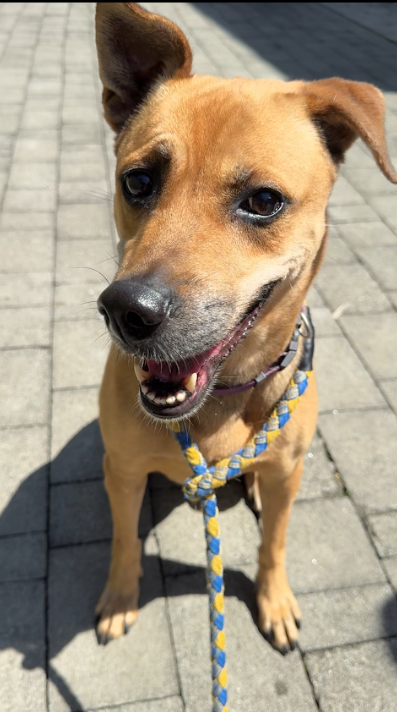
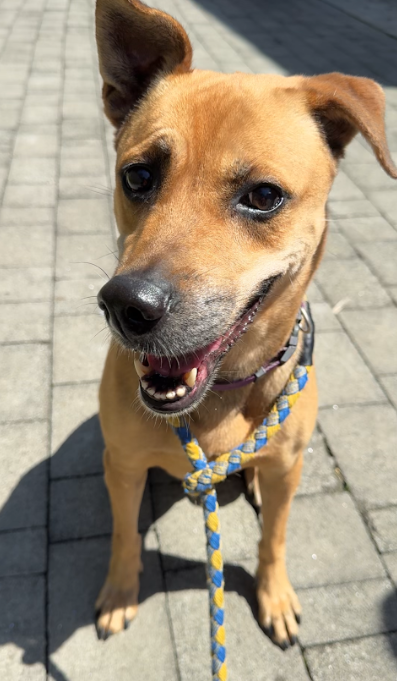
add dog facts

diff --git a/students/Kailyn/dog.html b/students/Kailyn/dog.html
@@ -3,6 +3,7 @@
 
 <head>
     <link rel="stylesheet" href="./styles/page.css">
+    <link rel="stylesheet" href="./styles/dog.css">
     <link rel="preconnect" href="https://fonts.googleapis.com">
     <link rel="preconnect" href="https://fonts.gstatic.com" crossorigin>
     <link
@@ -44,7 +45,7 @@
         </div>
         <ul class="center underline">
             <li class="tab">
-                <a href="./dog-facts.html">Facts</a>
+                <a href="./dog.html">Facts</a>
             </li>
             <li class="tab">
                 <a href="./dog-story.html">Story</a>
@@ -56,7 +57,36 @@
     </header>
     <main class="center">
         <h1>My dog: Lucy</h1>
-        <img src="./images/Dog picture/Lucy (2).png" width="200">
+        <div class="dog-picture">
+            <img src="./images/Dog picture/Lucy (2).png" width="200">
+        </div>
+        <p>
+            <b> Name:</b>Lucy<br> <b>Gender:</b>Female <br> <b>Age:</b>Adult <br>
+            <b>Descriptive words:</b>Her fur color is yellow, like to lick people, always smiles and one ear is fold
+            down.<br>
+            <b>Reason for going to the shelter:</b>She became improperly fed so she ended up in the shelter.<br>
+            <b>Previous owner / home:</b>I don’t know who her owner was before.<br>
+            <b>Likes:</b>Like to sit on the ground, humans to pet her, and lick people, shedding.<br>
+            <b>dislikes:</b>stranger<br>
+        </p>
+        <p>
+            This is Lucy, gender is female, and age is kind of an adolescent.She is a very kind dog, she always laughs
+            at you, she also can make you happy, too. If you take her for a walk, that may be very easy. I think she
+            doesn't like to go outside or is just lazy, so she likes to sit on the ground. She likes people, she likes
+            to lick human’s hand, and likes to pet her, although she is always shedding.
+        </p>
+        <p>
+            Like you have a dog, the dog can make you happy. If you are always happy, you should have health psychology,
+            and also not just from psychology, physiological will be health, too. And some friends will betray you, but
+            dogs won’t, it can reduce your trouble. Adopting a dog can let you practice your responsibility, too, so
+            please adopt Lucy.
+        </p>
+        <p>
+            If you have a dog, you will have more family members, think about it, when you go home, you have tried your
+            body, and she won’t care about anything, only care about you. You will have a warm love everyday when you go
+            home. Some people say adopting a dog is trouble and expensive. But you'll find that warmth and love can be
+            better than money. It's not just a pet. When you choose it, it chooses you. So please adopt Lucy.
+        </p>
     </main>
     <footer>
         <div class="center">

diff --git a/students/Kailyn/styles/page.css b/students/Kailyn/styles/page.css
@@ -4,19 +4,15 @@
 
 body {
   padding: 20px;
-  background: black;
-  color: azure;
+  background-image: linear-gradient(to top, rgb(17, 8, 79), rgb(41, 3, 61));
+  color: rgb(185, 207, 207);
   /* TODO Add dark mode styles here. */
   font-family: "Bitcount Grid Double", system-ui;
   font-family: "Saira Stencil", sans-serif;
   font-family: "Sekuya", system-ui;
   font-family: "Cause", cursive;
-
-
-  i {
-    box-shadow: 10px 5px 5px 0 rgb(65, 75, 118);
-  }
 }
+
 
 h1 {
   font-family: "BJ Cree", serif;
@@ -47,8 +43,8 @@ button {
 
 .light-mode {
   padding: 20px;
-  background: rgb(184, 190, 249);
-  color: rgb(0, 0, 0);
+  background-image: linear-gradient(to top, rgb(184, 190, 249), rgb(199, 138, 232));
+  color: rgb(64, 43, 66);
   /* TODO Add light mode styles here. */
 }
 
@@ -73,7 +69,7 @@ footer {
 .light-mode footer {
   /* TODO Add footer light mode styles here. */
   color: rgb(111, 27, 132);
-  background-image: linear-gradient(to left, rgb(178, 170, 228), rgb(137, 222, 222));
+  background-image: linear-gradient(to left, rgb(114, 92, 255), rgb(137, 222, 222));
   max-width: 940px;
   margin-left: auto;
   margin-right: auto;
@@ -93,7 +89,7 @@ footer {
 }
 
 .underline {
-  border-bottom: 1px solid white;
+  border-bottom: 1px solid rgb(185, 207, 207);
   display: flex;
   gap: 10px;
   justify-content: right;
@@ -102,12 +98,12 @@ footer {
 }
 
 .light-mode .underline {
-  border-bottom: 1px solid black;
+  border-bottom: 1px solid rgb(64, 43, 66);
   margin-bottom: 0px;
 }
 
 .tab {
-  border: 1px solid white;
+  border: 1px solid rgb(185, 207, 207);
   display: inline-block;
   padding: 10px;
   border-top-left-radius: 10px;
@@ -117,15 +113,15 @@ footer {
 }
 
 .light-mode .tab {
-  border-color: black;
+  border-color: rgb(64, 43, 66);
 }
 
 a {
-  color: white
+  color: rgb(185, 207, 207);
 }
 
 .light-mode a {
-  color: black;
+  color: rgb(64, 43, 66);
 }
 
 main {

diff --git a/students/Kailyn/styles/dog.css b/students/Kailyn/styles/dog.css
@@ -1,0 +1,5 @@
+.dog-picture {
+    float: right;
+    margin-left: 20px;
+    margin-bottom: 20px;
+}

diff --git a/students/Kailyn/index.html b/students/Kailyn/index.html
@@ -37,7 +37,7 @@
                 <a href="./philosophy.html">Philosophy</a>
                 <a href="./research.html">Research</a>
                 <a href="./coding.html">Coding</a>
-                <button id="color-mode-button"> 
+                <button id="color-mode-button">
                     Light mode
                 </button>
             </menu>